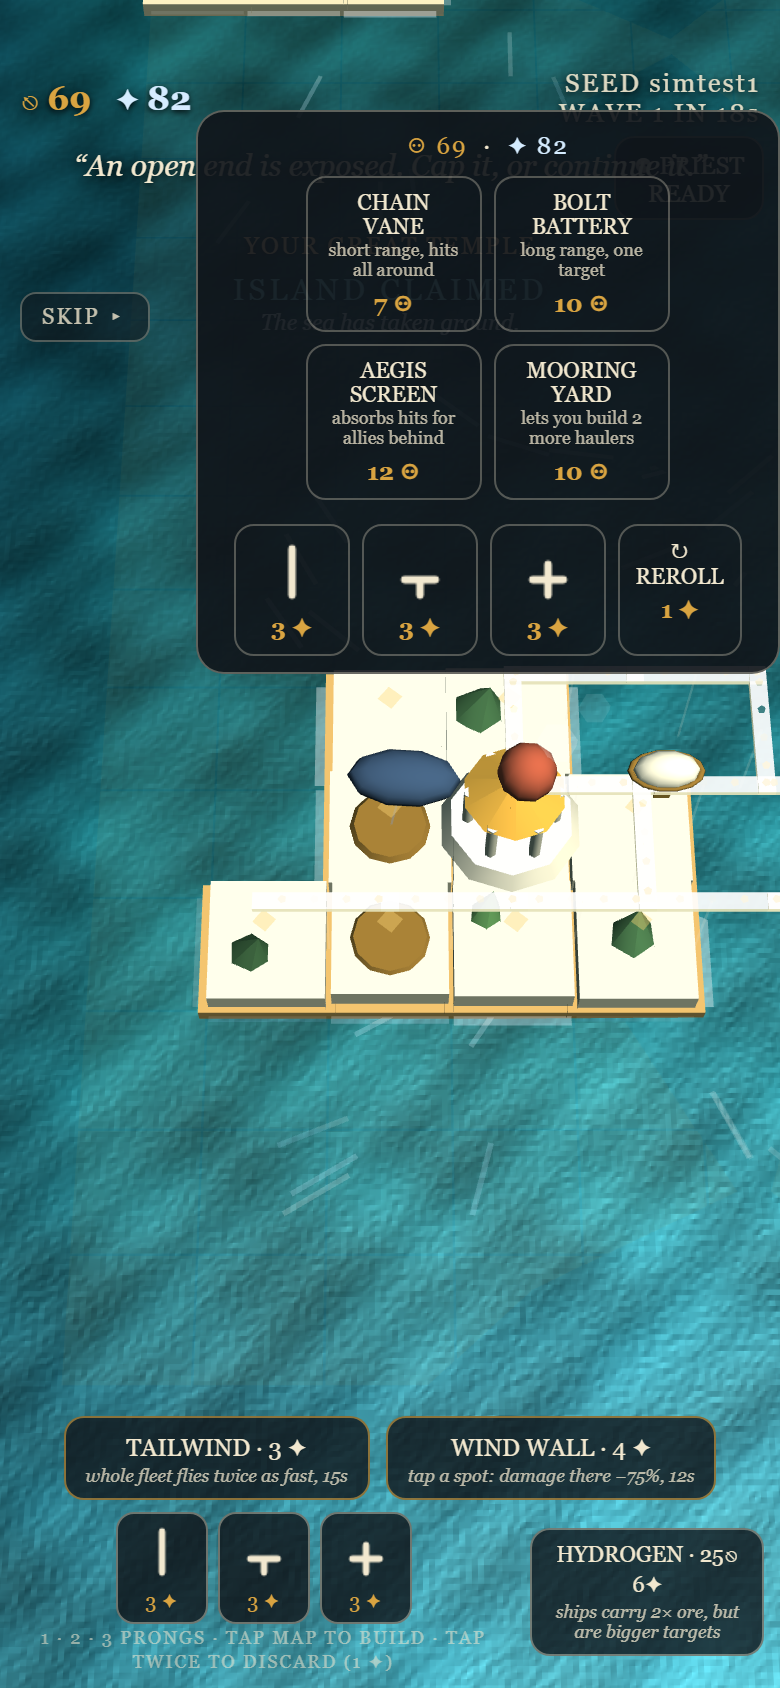
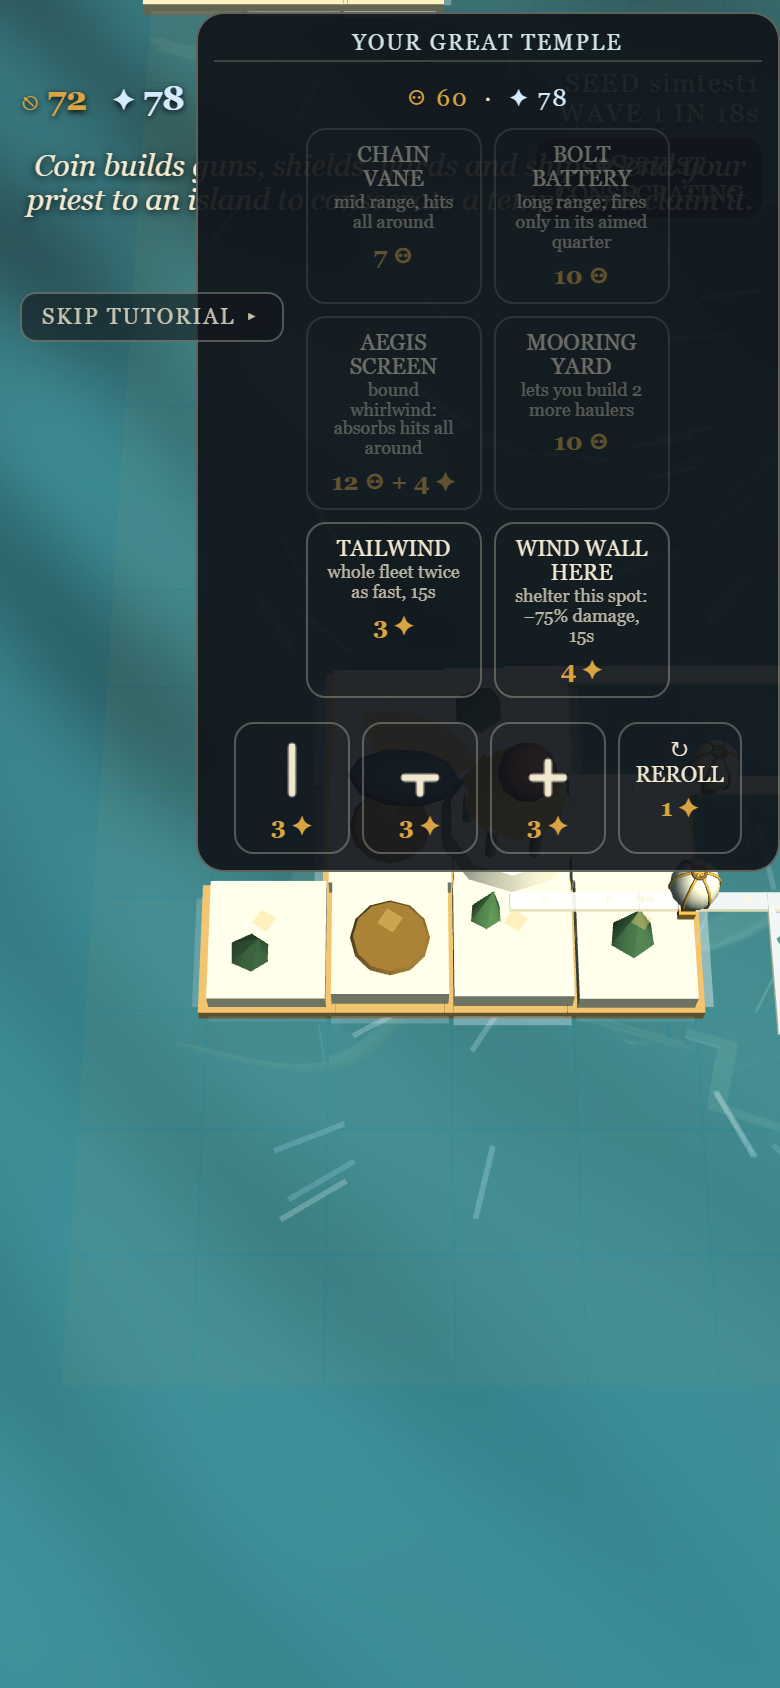
feat: winner-informed docs; powers live in the thumb menu; named winds
From studying the design-phase winners (single resonant mechanic,
minute-by-minute first sessions, charm, honest scope):
- design-intent.docx rewritten (492 words, same 7 template sections):
  ONE ROAD FIVE JOBS as the stated pillar, the nine tides as the hard
  constraint, a first-session beat map (0:05 first path ... 7:00 come
  down), and the sweep + fair-play method as design craft. README
  opening mirrors the framing.
- Divine powers move into the thumb context menu where they are valid
  actions: TAILWIND anywhere, WIND WALL HERE shelters the tapped spot
  (themed FOLLOWING SEA / BREAKWATER). The armed-then-aim flow is
  gone; hydrogen already lives in the yard dialog. The bottom bar is
  now EMPTY - the whole screen belongs to the map.
- Named winds (charm + legibility): tapping open water names the
  Anemoi ruling that patch - BOREAS, NOTUS, EURUS, ZEPHYRUS - with its
  strength; heads the context menu.

Claude-Session: https://claude.ai/code/session_01NjEpo5MjLFBKVLFNZET6tb

diff --git a/index.html b/index.html
@@ -205,14 +205,9 @@
     <div id="codex" class="hidden"></div>
     <div id="buildmenu" class="hidden"></div>
     <div id="bottombar">
-      <!-- one clean row: the two petitions and the fleet upgrade. The
-           hand chips and prongs note are gone (player-directed) — pieces
-           live in the thumb menu, discard/reroll live there too. -->
-      <div id="powers">
-        <button class="powbtn" id="pow-tailwind">TAILWIND · 3 &#10022;<span class="powdesc">whole fleet flies twice as fast, 15s</span></button>
-        <button class="powbtn" id="pow-windwall">WIND WALL · 4 &#10022;<span class="powdesc">tap a spot: damage there &minus;75%, 12s</span></button>
-        <button class="powbtn" id="btn-tech">HYDROGEN · 25&#9099; 6&#10022;<span class="powdesc">ships carry 2&times; ore, but are bigger targets</span></button>
-      </div>
+      <!-- the bottom bar is EMPTY by design (player-directed): powers
+           live in the thumb context menu, the fleet upgrade in the yard
+           dialog. The whole screen belongs to the map. -->
       <div id="confirmrow">
         <button id="btn-confirm" class="hidden">CONFIRM</button>
         <button id="btn-rotate" class="hidden">&#8635; TURN</button>
@@ -6409,21 +6404,10 @@ function initUI(state) {
   UI.els = {
     supply: $('supply'), favor: $('favor'), seedchip: $('seedchip'), waveinfo: $('waveinfo'),
     hand: $('hand'), confirm: $('btn-confirm'), cancel: $('btn-cancel'), rotate: $('btn-rotate'),
-    tech: $('btn-tech'),
     banner: $('banner'), tutorial: $('tutorial'), ticker: $('ticker'),
-    powTailwind: $('pow-tailwind'), powWindwall: $('pow-windwall'),
     priestchip: $('priestchip'), buildmenu: $('buildmenu'), codex: $('codex')
   };
   UI.els.seedchip.textContent = state.seed;
-  // the bottom bar speaks for your god
-  if (R.themeSea) {
-    UI.els.powTailwind.innerHTML = 'FOLLOWING SEA · ' + CONFIG.Powers.TAILWIND.FAVOR +
-      ' ✦<span class="powdesc">whole fleet sails twice as fast, 15s</span>';
-    UI.els.powWindwall.innerHTML = 'BREAKWATER · ' + CONFIG.Powers.WIND_WALL.FAVOR +
-      ' ✦<span class="powdesc">tap a spot: damage there −75%, 15s</span>';
-    UI.els.tech.innerHTML = 'DEEP HULLS · ' + CONFIG.Tech.HYDROGEN_COST_SUPPLY + '⚇ ' +
-      CONFIG.Tech.HYDROGEN_COST_FAVOR + '✦<span class="powdesc">ships carry 2× ore, but are bigger targets</span>';
-  }
   wireDismissables();
 
   buildHand(state);
@@ -6431,21 +6415,9 @@ function initUI(state) {
   UI.els.confirm.addEventListener('click', () => confirmPlacement(state));
   UI.els.rotate.addEventListener('click', () => cyclePlacement(state));
   UI.els.cancel.addEventListener('click', () => cancelPlacement());
-  UI.els.tech.addEventListener('click', () => {
-    if (buyHydrogen(state, 'A')) {
-      flashTicker(R.themeSea ? 'DEEP HULLS — THE FLEET IS REFITTED' : 'THE LIGHT AIR — THE FLEET REFITS TO HYDROGEN');
-      UI.els.tech.disabled = true;
-    } else flashTicker('NEEDS 25 SUPPLY AND 6 FAVOR');
-  });
-  UI.els.powTailwind.addEventListener('click', () => {
-    if (!castTailwind(state)) flashTicker('NOT ENOUGH FAVOR');
-  });
-  UI.els.powWindwall.addEventListener('click', () => {
-    if (state.res.A.favor < CONFIG.Powers.WIND_WALL.FAVOR) { flashTicker('NOT ENOUGH FAVOR'); return; }
-    UI.windwallArmed = !UI.windwallArmed;
-    UI.els.powWindwall.classList.toggle('armed', UI.windwallArmed);
-    if (UI.windwallArmed) flashTicker('TAP AN ENDPOINT TO SHELTER');
-  });
+  // (the powers bar is gone, player-directed: Tailwind and the Wall live
+  // in the context menu where they are valid actions; the fleet upgrade
+  // lives in the yard dialog)
   UI.els.priestchip.classList.remove('hidden');
   UI.els.priestchip.addEventListener('click', () => {
     const p = state.priests.A;
@@ -6816,13 +6788,6 @@ function onTap(state, e) {
   }
   if (!cell) return;
 
-  // armed Wind Wall aims at the tapped endpoint (§19.1)
-  if (UI.windwallArmed) {
-    UI.windwallArmed = false;
-    UI.els.powWindwall.classList.remove('armed');
-    castWindWall(state, cell);
-    return;
-  }
   // snap the tap to the nearest actionable spot: a socket of the network,
   // any island cell, or a structure — then open the menu at the thumb
   let snapped = cell, sd = SNAP;
@@ -6897,7 +6862,9 @@ const MENU_DESC = {
   hauler: 'carries mined ore home',
   salvage: 'reclaim it: half its cost back',
   hydrogen: 'whole fleet carries 2×, but bigger targets',
-  salvageseg: 'unbind one segment; branches beyond may fray'
+  salvageseg: 'unbind one segment; branches beyond may fray',
+  tailwind: 'whole fleet twice as fast, 15s',
+  windwall: 'shelter this spot: −75% damage, 15s'
 };
 
 function menuButton(label, cost, fn, disabledReason, descKey, favorCost) {
@@ -6969,7 +6936,20 @@ function identifyCell(state, cell) {
     if (seg.owner === 'A') return (R.themeSea ? 'YOUR SEA-LANE' : 'YOUR WIND CORRIDOR') + stateTxt;
     return (R.themeSea ? 'GUILD SKY-ROAD — TRACES HOME TO ITS TEMPLES' : 'HIS SEA-LANE — TRACES HOME TO HIS TEMPLES') + stateTxt;
   }
-  return null;
+  // open water: name the wind that rules this spot — the four Anemoi
+  // (player-directed charm; also makes the wind field legible)
+  {
+    const w = state.wind.at(cell[0], cell[1]);
+    // the god is named for where the wind COMES FROM (map north = -z)
+    const a = Math.atan2(-(-w.z), -w.x);   // reversed vector, atan2(N, E)
+    const deg = ((a * 180 / Math.PI) + 360) % 360;
+    const god = deg >= 45 && deg < 135 ? 'BOREAS — THE NORTH WIND'
+      : deg >= 135 && deg < 225 ? 'ZEPHYRUS — THE WEST WIND'
+      : deg >= 225 && deg < 315 ? 'NOTUS — THE SOUTH WIND'
+      : 'EURUS — THE EAST WIND';
+    const str = Math.hypot(w.x, w.z);
+    return god + ' · ' + (str > 0.85 ? 'BLOWING HARD' : str > 0.5 ? 'STEADY' : 'LIGHT AIRS');
+  }
 }
 
 // a chip in the context menu for a piece the player holds, placeable here
@@ -7142,6 +7122,23 @@ function openContextMenu(state, cell, tapX, tapY, fx, fz) {
     }
   }
 
+  // divine powers live HERE now (player-directed): Tailwind is valid
+  // anywhere; the Wall shelters the very spot you tapped
+  {
+    const P = CONFIG.Powers;
+    const twName = R.themeSea ? 'FOLLOWING<br>SEA' : 'TAILWIND';
+    const twBusy = state.time < state.powers.tailwindUntil;
+    options.push(menuButton(twName, 0, () => {
+      if (castTailwind(state)) flashTicker(R.themeSea ? 'A FOLLOWING SEA RISES' : 'THE TAILWIND ANSWERS');
+    }, twBusy ? 'ALREADY BLOWING' : (state.res.A.favor < P.TAILWIND.FAVOR ? 'NOT ENOUGH FAVOR' : null),
+      'tailwind', P.TAILWIND.FAVOR));
+    const wwName = R.themeSea ? 'BREAKWATER<br>HERE' : 'WIND WALL<br>HERE';
+    options.push(menuButton(wwName, 0, () => {
+      if (castWindWall(state, cell)) flashTicker(R.themeSea ? 'THE BREAKWATER HOLDS THIS GROUND' : 'THE WALL STANDS OVER THIS GROUND');
+    }, state.res.A.favor < P.WIND_WALL.FAVOR ? 'NOT ENOUGH FAVOR' : null,
+      'windwall', P.WIND_WALL.FAVOR));
+  }
+
   // salvage (player-directed, NetStorm-style): reclaim what stands here
   const stHere = structureAt(state, x, z);
   if (stHere && stHere.owner === 'A' && stHere.hp > 0) {
@@ -7237,9 +7234,6 @@ function refreshHUD(state) {
   const adrift = state.haulers.filter(h => h.owner === 'A' && h.state === 'adrift').length;
   if (adrift > 0 && !UI.lastAdrift) flashTicker('ADRIFT ×' + adrift);
   UI.lastAdrift = adrift;
-  UI.els.tech.disabled = state.hydrogen.A;
-  UI.els.powTailwind.disabled = state.res.A.favor < CONFIG.Powers.TAILWIND.FAVOR || state.time < state.powers.tailwindUntil;
-  UI.els.powWindwall.disabled = state.res.A.favor < CONFIG.Powers.WIND_WALL.FAVOR && !UI.windwallArmed;
   refreshHand(state);
 }
 

diff --git a/src/19_ui.js b/src/19_ui.js
@@ -27,21 +27,10 @@ function initUI(state) {
   UI.els = {
     supply: $('supply'), favor: $('favor'), seedchip: $('seedchip'), waveinfo: $('waveinfo'),
     hand: $('hand'), confirm: $('btn-confirm'), cancel: $('btn-cancel'), rotate: $('btn-rotate'),
-    tech: $('btn-tech'),
     banner: $('banner'), tutorial: $('tutorial'), ticker: $('ticker'),
-    powTailwind: $('pow-tailwind'), powWindwall: $('pow-windwall'),
     priestchip: $('priestchip'), buildmenu: $('buildmenu'), codex: $('codex')
   };
   UI.els.seedchip.textContent = state.seed;
-  // the bottom bar speaks for your god
-  if (R.themeSea) {
-    UI.els.powTailwind.innerHTML = 'FOLLOWING SEA · ' + CONFIG.Powers.TAILWIND.FAVOR +
-      ' ✦<span class="powdesc">whole fleet sails twice as fast, 15s</span>';
-    UI.els.powWindwall.innerHTML = 'BREAKWATER · ' + CONFIG.Powers.WIND_WALL.FAVOR +
-      ' ✦<span class="powdesc">tap a spot: damage there −75%, 15s</span>';
-    UI.els.tech.innerHTML = 'DEEP HULLS · ' + CONFIG.Tech.HYDROGEN_COST_SUPPLY + '⚇ ' +
-      CONFIG.Tech.HYDROGEN_COST_FAVOR + '✦<span class="powdesc">ships carry 2× ore, but are bigger targets</span>';
-  }
   wireDismissables();
 
   buildHand(state);
@@ -49,21 +38,9 @@ function initUI(state) {
   UI.els.confirm.addEventListener('click', () => confirmPlacement(state));
   UI.els.rotate.addEventListener('click', () => cyclePlacement(state));
   UI.els.cancel.addEventListener('click', () => cancelPlacement());
-  UI.els.tech.addEventListener('click', () => {
-    if (buyHydrogen(state, 'A')) {
-      flashTicker(R.themeSea ? 'DEEP HULLS — THE FLEET IS REFITTED' : 'THE LIGHT AIR — THE FLEET REFITS TO HYDROGEN');
-      UI.els.tech.disabled = true;
-    } else flashTicker('NEEDS 25 SUPPLY AND 6 FAVOR');
-  });
-  UI.els.powTailwind.addEventListener('click', () => {
-    if (!castTailwind(state)) flashTicker('NOT ENOUGH FAVOR');
-  });
-  UI.els.powWindwall.addEventListener('click', () => {
-    if (state.res.A.favor < CONFIG.Powers.WIND_WALL.FAVOR) { flashTicker('NOT ENOUGH FAVOR'); return; }
-    UI.windwallArmed = !UI.windwallArmed;
-    UI.els.powWindwall.classList.toggle('armed', UI.windwallArmed);
-    if (UI.windwallArmed) flashTicker('TAP AN ENDPOINT TO SHELTER');
-  });
+  // (the powers bar is gone, player-directed: Tailwind and the Wall live
+  // in the context menu where they are valid actions; the fleet upgrade
+  // lives in the yard dialog)
   UI.els.priestchip.classList.remove('hidden');
   UI.els.priestchip.addEventListener('click', () => {
     const p = state.priests.A;
@@ -434,13 +411,6 @@ function onTap(state, e) {
   }
   if (!cell) return;
 
-  // armed Wind Wall aims at the tapped endpoint (§19.1)
-  if (UI.windwallArmed) {
-    UI.windwallArmed = false;
-    UI.els.powWindwall.classList.remove('armed');
-    castWindWall(state, cell);
-    return;
-  }
   // snap the tap to the nearest actionable spot: a socket of the network,
   // any island cell, or a structure — then open the menu at the thumb
   let snapped = cell, sd = SNAP;
@@ -515,7 +485,9 @@ const MENU_DESC = {
   hauler: 'carries mined ore home',
   salvage: 'reclaim it: half its cost back',
   hydrogen: 'whole fleet carries 2×, but bigger targets',
-  salvageseg: 'unbind one segment; branches beyond may fray'
+  salvageseg: 'unbind one segment; branches beyond may fray',
+  tailwind: 'whole fleet twice as fast, 15s',
+  windwall: 'shelter this spot: −75% damage, 15s'
 };
 
 function menuButton(label, cost, fn, disabledReason, descKey, favorCost) {
@@ -587,7 +559,20 @@ function identifyCell(state, cell) {
     if (seg.owner === 'A') return (R.themeSea ? 'YOUR SEA-LANE' : 'YOUR WIND CORRIDOR') + stateTxt;
     return (R.themeSea ? 'GUILD SKY-ROAD — TRACES HOME TO ITS TEMPLES' : 'HIS SEA-LANE — TRACES HOME TO HIS TEMPLES') + stateTxt;
   }
-  return null;
+  // open water: name the wind that rules this spot — the four Anemoi
+  // (player-directed charm; also makes the wind field legible)
+  {
+    const w = state.wind.at(cell[0], cell[1]);
+    // the god is named for where the wind COMES FROM (map north = -z)
+    const a = Math.atan2(-(-w.z), -w.x);   // reversed vector, atan2(N, E)
+    const deg = ((a * 180 / Math.PI) + 360) % 360;
+    const god = deg >= 45 && deg < 135 ? 'BOREAS — THE NORTH WIND'
+      : deg >= 135 && deg < 225 ? 'ZEPHYRUS — THE WEST WIND'
+      : deg >= 225 && deg < 315 ? 'NOTUS — THE SOUTH WIND'
+      : 'EURUS — THE EAST WIND';
+    const str = Math.hypot(w.x, w.z);
+    return god + ' · ' + (str > 0.85 ? 'BLOWING HARD' : str > 0.5 ? 'STEADY' : 'LIGHT AIRS');
+  }
 }
 
 // a chip in the context menu for a piece the player holds, placeable here
@@ -760,6 +745,23 @@ function openContextMenu(state, cell, tapX, tapY, fx, fz) {
     }
   }
 
+  // divine powers live HERE now (player-directed): Tailwind is valid
+  // anywhere; the Wall shelters the very spot you tapped
+  {
+    const P = CONFIG.Powers;
+    const twName = R.themeSea ? 'FOLLOWING<br>SEA' : 'TAILWIND';
+    const twBusy = state.time < state.powers.tailwindUntil;
+    options.push(menuButton(twName, 0, () => {
+      if (castTailwind(state)) flashTicker(R.themeSea ? 'A FOLLOWING SEA RISES' : 'THE TAILWIND ANSWERS');
+    }, twBusy ? 'ALREADY BLOWING' : (state.res.A.favor < P.TAILWIND.FAVOR ? 'NOT ENOUGH FAVOR' : null),
+      'tailwind', P.TAILWIND.FAVOR));
+    const wwName = R.themeSea ? 'BREAKWATER<br>HERE' : 'WIND WALL<br>HERE';
+    options.push(menuButton(wwName, 0, () => {
+      if (castWindWall(state, cell)) flashTicker(R.themeSea ? 'THE BREAKWATER HOLDS THIS GROUND' : 'THE WALL STANDS OVER THIS GROUND');
+    }, state.res.A.favor < P.WIND_WALL.FAVOR ? 'NOT ENOUGH FAVOR' : null,
+      'windwall', P.WIND_WALL.FAVOR));
+  }
+
   // salvage (player-directed, NetStorm-style): reclaim what stands here
   const stHere = structureAt(state, x, z);
   if (stHere && stHere.owner === 'A' && stHere.hp > 0) {
@@ -855,9 +857,6 @@ function refreshHUD(state) {
   const adrift = state.haulers.filter(h => h.owner === 'A' && h.state === 'adrift').length;
   if (adrift > 0 && !UI.lastAdrift) flashTicker('ADRIFT ×' + adrift);
   UI.lastAdrift = adrift;
-  UI.els.tech.disabled = state.hydrogen.A;
-  UI.els.powTailwind.disabled = state.res.A.favor < CONFIG.Powers.TAILWIND.FAVOR || state.time < state.powers.tailwindUntil;
-  UI.els.powWindwall.disabled = state.res.A.favor < CONFIG.Powers.WIND_WALL.FAVOR && !UI.windwallArmed;
   refreshHand(state);
 }
 

diff --git a/shell.html b/shell.html
@@ -205,14 +205,9 @@
     <div id="codex" class="hidden"></div>
     <div id="buildmenu" class="hidden"></div>
     <div id="bottombar">
-      <!-- one clean row: the two petitions and the fleet upgrade. The
-           hand chips and prongs note are gone (player-directed) — pieces
-           live in the thumb menu, discard/reroll live there too. -->
-      <div id="powers">
-        <button class="powbtn" id="pow-tailwind">TAILWIND · 3 &#10022;<span class="powdesc">whole fleet flies twice as fast, 15s</span></button>
-        <button class="powbtn" id="pow-windwall">WIND WALL · 4 &#10022;<span class="powdesc">tap a spot: damage there &minus;75%, 12s</span></button>
-        <button class="powbtn" id="btn-tech">HYDROGEN · 25&#9099; 6&#10022;<span class="powdesc">ships carry 2&times; ore, but are bigger targets</span></button>
-      </div>
+      <!-- the bottom bar is EMPTY by design (player-directed): powers
+           live in the thumb context menu, the fleet upgrade in the yard
+           dialog. The whole screen belongs to the map. -->
       <div id="confirmrow">
         <button id="btn-confirm" class="hidden">CONFIRM</button>
         <button id="btn-rotate" class="hidden">&#8635; TURN</button>

diff --git a/buildlog/BUILDLOG.md b/buildlog/BUILDLOG.md
@@ -140,6 +140,7 @@ ENTRY TEMPLATE — copy for each session.
 | 50 | **Sea-side previews grounded (player report):** ghost/beacons/action markers hardcoded AIR_ALTITUDE — as Poseidon the provisional route floated in the sky before landing on the water. New `playerRouteY()` puts all provisional visuals at the player''s network level; tracers and unravel fx follow themed altitude. Verified: sea-theme ghost hugs the waterline | `4990248` | fix: waterline previews |
 | 51 | **Priest ashore + shrine-ship + AI garrisons + sea art + fixed sectors (player-directed x5):** priest on an island renders as a robed FIGURE with staff (vessel only under way); sea priest sails a royal-blue processional shrine-ship (marble columns, glowing teal dome, trident bow). AI now garrisons: drum on every claimed island + forward lance every ~45s ("he never places guns"). BULWARK WARD = circling stone sea wall + foam crests (not an air whirlwind); SHIPYARD = stone slipway/piers/crane. Weapon rework: omni radius 2→3, directional guns FIXED-SECTOR (no traverse; sector-filtered targeting; permanent faint wedge everyone can read). Full battery green incl. siege; difficulty grid re-sweep queued | `2a71065` | feat: figures, garrisons, sea art, sectors |
 | 52 | **Wave ramp re-swept post-rework:** garrisons + fixed sectors raised de-facto difficulty (old 0.15/1.4 fell 103→88 in the grid; optc dying wave 4 in several cells); softened to 0.10/1.2, gun mult stays 0.45 (0.65''s 101 vs 99 is noise). The lesson holds: every mechanics change re-prices the tuning | `1721706` | tune: soften ramp post-garrison |
+| 53 | **Fixed sectors re-priced the lane war (sim went red — committed before reading the battery, caught one commit later):** no traverse downtime = ~100% gun uptime, so GUN_VS_SEGMENT 0.45 ground both networks to dust (496 cuts/match, craft idle, zero engagements). Spot sweep under the new kit: 0.12–0.3 healthy → set 0.2. Garrison capped (4 drums + 3 lances — uncapped he built 22 structures and blanketed the map). Sector wedges shrunk to a discrete hull marking (player: ''they paint the whole map''). Lesson repeated in caps: every mechanics change re-prices every tuned number | `0e0ae71` | fix: lane-cut re-price, capped garrison, hull wedges |
 | 22 | **Favor income sweep** (`test/opt_income.js`, `opt_income2.js`): divisor-only sweep showed lean income causes death-spirals (lose temples → can't afford roads → segsA collapses to 10); pairing a leaner territory rate with a fatter territory-free baseline fixes it. Pairs [8,4] and [16,6] tie at 92; chose **divisor 16 + baseline 6/10s** because actives end at 24–31 Favor (every power cast competes with roads — the tension we wanted) vs 100+ spare at [8,4]. The baseline drip is rebuild insurance | `dfc95e5` | tune: favor income 16-divisor + 6 baseline, sweep-derived |
 | 21 | **Favor price sweep** (`test/opt_favor.js`): prices 1/2/3/5 score identically (avg 90 across 3 seeds) because temple-influence Favor income floods the price; at 5 active players end at 0 Favor (powers become unaffordable — the sim can't see this since the script never casts); at 8 networks starve on 2 of 3 seeds. **Chose 3**: quality identical to 1, reserves halved, price felt, powers budget preserved. Flagged follow-up: Favor *income* (hundreds per match from temple influence) is the real oversupply lever | `3baed33` | tune: piece price 3 favor, sweep-derived |
 | 18 | **Toast discipline (player-directed):** every transient line (tutorial, banner, ticker, codex) is tap-to-dismiss; story/tutorial lines show once EVER via localStorage (skip marks them all seen); codex long-press slowed to ~1s so it stops firing accidentally | `fe63d05` | fix: dismissible, once-only story toasts |

diff --git a/README.md b/README.md
@@ -4,7 +4,7 @@ A portrait mobile web prototype for the Meta Horizon Creator Competition (Tower 
 
 **▶ Play the current build: https://jamesdavid.github.io/Windward/** (open on a phone, or a narrow browser window)
 
-> You are the high priest of Aeolus. Build circuits of bound wind into a working logistics network across a Greek archipelago, cap its exposed ends with defenses, survive nine escalating waves from Poseidon's priesthood, watch severed infrastructure physically unravel — and race to reconnect it before the collapse reaches something you love.
+> **One road, five jobs.** A single system carries the whole game — the bound road. It is *movement* (everything rides it), *income* (islands it touches are mined; haulers must land the ore), *reach* (only the road lifts the fog and grants ground), *attack surface* (roads are invulnerable along their length — the raw ends and capping towers are the joints), and *drama* (a severed branch visibly unbinds segment by segment while you race to reconnect it). The hard constraint is the clock: **the tide comes nine times**, each further and harder — and the ninth only says *come down*. Play either god: bind the air, or ride the waves.
 
 **Tech:** Three.js / HTML5, single-player, portrait, fully offline. All entrant-authored code assembles into one readable `index.html`; Three.js lives under `/vendor`. All art is procedural Three.js geometry and all audio is runtime WebAudio synthesis — no external assets of any kind.
 
@@ -24,7 +24,7 @@ A nine-wave match on seed `simtest1` (the balance suite's reference seed), filme
 
 Open `index.html` in a browser (portrait phone, or a narrow browser window). No server or network needed.
 
-- **Tap anywhere gold markers glow** — island coasts, route ends, structure ports. A context menu opens at your thumb: the route pieces in your hand that fit there, every building valid at that spot (each explained in a line), and a Favor-priced reroll.
+- **Tap anywhere gold markers glow** — island coasts, route ends, structure ports. A context menu opens at your thumb: the route pieces in your hand that fit there, every building valid at that spot (each explained in a line), the divine powers (Tailwind anywhere; the Wall shelters the very spot you tapped), salvage, and a Favor-priced reroll. The bottom bar is empty by design — the whole screen belongs to the map.
 - **Route pieces cost Favor (✦), flat rate**; buildings and haulers cost Supply (⚇), hauled home as ore.
 - **Tap the ghost to turn it, CONFIRM to bind.** The confirm button quotes the wind multiplier the new corridor would ride.
 - **Tap an island** to send your priest; ten seconds of his presence consecrates a Temple and claims the island.
